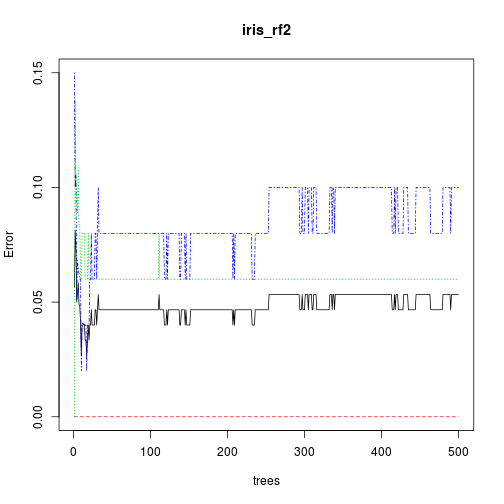
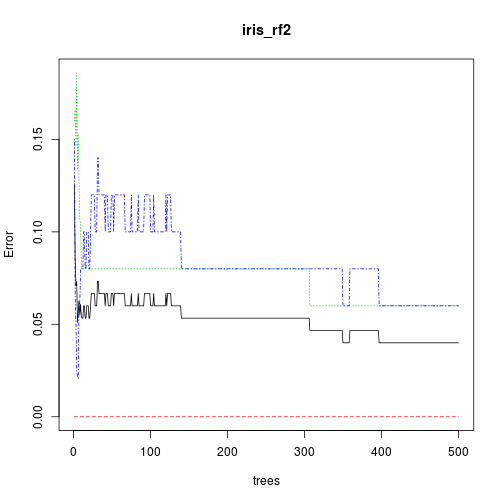
automatic build of site

diff --git a/_posts/2015-01-15-07-Analyze.md b/_posts/2015-01-15-07-Analyze.md
@@ -9,7 +9,7 @@ layout: post_page
 The second section will run through a quick example of using a package, `randomForest` for some analysis.  I've included this section just to show how (relatively) trivial it is to add an advanced capability to R via packages.
 
 ##Quick Links to Exercises and R code
-- [Lesson 7 R Code](/introR/rmd_posts/2015-01-14-07-Analyze.R): All the code from this post in an R Script.
+- [Lesson 7 R Code](/introR/rmd_posts/2015-01-15-07-Analyze.R): All the code from this post in an R Script.
 - [Exercise 1](#exercise-1): Use random forests to predict NLA reference class. 
 
 ##Lesson Goals
@@ -53,12 +53,12 @@ iris_rf
 ##                      Number of trees: 500
 ## No. of variables tried at each split: 2
 ## 
-##         OOB estimate of  error rate: 4%
+##         OOB estimate of  error rate: 4.67%
 ## Confusion matrix:
 ##            setosa versicolor virginica class.error
 ## setosa         50          0         0        0.00
 ## versicolor      0         47         3        0.06
-## virginica       0          3        47        0.06
+## virginica       0          4        46        0.08
 {% endhighlight %}
 
 Can we predict species, well, I'd say so!  
@@ -81,12 +81,12 @@ iris_rf2
 ##                      Number of trees: 500
 ## No. of variables tried at each split: 2
 ## 
-##         OOB estimate of  error rate: 5.33%
+##         OOB estimate of  error rate: 4%
 ## Confusion matrix:
 ##            setosa versicolor virginica class.error
 ## setosa         50          0         0        0.00
 ## versicolor      0         47         3        0.06
-## virginica       0          5        45        0.10
+## virginica       0          3        47        0.06
 {% endhighlight %}
 
 The only thing we haven't seen before here is the ".".  That indicates all the other variables in the data frame.  It is just a shortcut and you could explicitly name the variables to use.

diff --git a/rmd_posts/2015-01-15-07-Analyze.md b/rmd_posts/2015-01-15-07-Analyze.md
@@ -9,7 +9,7 @@ layout: post_page
 The second section will run through a quick example of using a package, `randomForest` for some analysis.  I've included this section just to show how (relatively) trivial it is to add an advanced capability to R via packages.
 
 ##Quick Links to Exercises and R code
-- [Lesson 7 R Code](/introR/rmd_posts/2015-01-14-07-Analyze.R): All the code from this post in an R Script.
+- [Lesson 7 R Code](/introR/rmd_posts/2015-01-15-07-Analyze.R): All the code from this post in an R Script.
 - [Exercise 1](#exercise-1): Use random forests to predict NLA reference class. 
 
 ##Lesson Goals
@@ -53,12 +53,12 @@ iris_rf
 ##                      Number of trees: 500
 ## No. of variables tried at each split: 2
 ## 
-##         OOB estimate of  error rate: 4%
+##         OOB estimate of  error rate: 4.67%
 ## Confusion matrix:
 ##            setosa versicolor virginica class.error
 ## setosa         50          0         0        0.00
 ## versicolor      0         47         3        0.06
-## virginica       0          3        47        0.06
+## virginica       0          4        46        0.08
 {% endhighlight %}
 
 Can we predict species, well, I'd say so!  
@@ -81,12 +81,12 @@ iris_rf2
 ##                      Number of trees: 500
 ## No. of variables tried at each split: 2
 ## 
-##         OOB estimate of  error rate: 5.33%
+##         OOB estimate of  error rate: 4%
 ## Confusion matrix:
 ##            setosa versicolor virginica class.error
 ## setosa         50          0         0        0.00
 ## versicolor      0         47         3        0.06
-## virginica       0          5        45        0.10
+## virginica       0          3        47        0.06
 {% endhighlight %}
 
 The only thing we haven't seen before here is the ".".  That indicates all the other variables in the data frame.  It is just a shortcut and you could explicitly name the variables to use.

diff --git a/_posts/2015-01-15-06-Analyze.md b/_posts/2015-01-15-06-Analyze.md
@@ -6,7 +6,7 @@ layout: post_page
 The focus of this workshop hasn't really been statistics, its been more about R, the language.  But, it is pretty much impossible to talk a lot about R without getting into stats, as that is what draws most people to R in the first place.  So, we will spend a little bit of time on it.  In this lesson we will touch on some very simple stats that we can do with base R as well as provide a quick (i.e. top of my head as I write this) list of what can be done in base R.  
 
 ##Quick Links to Exercises and R code
-- [Lesson 4 R Code](/introR/rmd_posts/2015-01-14-06-Analyze.R): All the code from this post in an R Script.
+- [Lesson 4 R Code](/introR/rmd_posts/2015-01-15-06-Analyze.R): All the code from this post in an R Script.
 - [Exercise 1](#exercise-1): Run some basic statistical test and build a simple model with the NLA data
 
 ##Lesson Goals
@@ -36,13 +36,13 @@ xy_tt
 ## 	Welch Two Sample t-test
 ## 
 ## data:  x and y
-## t = -8.2469, df = 40.705, p-value = 3.214e-10
+## t = -6.5206, df = 38.427, p-value = 1.049e-07
 ## alternative hypothesis: true difference in means is not equal to 0
 ## 95 percent confidence interval:
-##  -9.072528 -5.502536
+##  -8.952372 -4.711729
 ## sample estimates:
 ## mean of x mean of y 
-##  2.780903 10.068435
+##  3.033759  9.865810
 {% endhighlight %}
 
 `t.test()` can also take a formula specification as input. I mentioned this briefly in the previous lesson.  At it's simplest a formula takes the form of `y ~ x`.  The tilde is used in place of the equals sign.  For a t-test that is all we need to know.  

diff --git a/rmd_posts/2015-01-15-06-Analyze.md b/rmd_posts/2015-01-15-06-Analyze.md
@@ -6,7 +6,7 @@ layout: post_page
 The focus of this workshop hasn't really been statistics, its been more about R, the language.  But, it is pretty much impossible to talk a lot about R without getting into stats, as that is what draws most people to R in the first place.  So, we will spend a little bit of time on it.  In this lesson we will touch on some very simple stats that we can do with base R as well as provide a quick (i.e. top of my head as I write this) list of what can be done in base R.  
 
 ##Quick Links to Exercises and R code
-- [Lesson 4 R Code](/introR/rmd_posts/2015-01-14-06-Analyze.R): All the code from this post in an R Script.
+- [Lesson 4 R Code](/introR/rmd_posts/2015-01-15-06-Analyze.R): All the code from this post in an R Script.
 - [Exercise 1](#exercise-1): Run some basic statistical test and build a simple model with the NLA data
 
 ##Lesson Goals
@@ -36,13 +36,13 @@ xy_tt
 ## 	Welch Two Sample t-test
 ## 
 ## data:  x and y
-## t = -8.2469, df = 40.705, p-value = 3.214e-10
+## t = -6.5206, df = 38.427, p-value = 1.049e-07
 ## alternative hypothesis: true difference in means is not equal to 0
 ## 95 percent confidence interval:
-##  -9.072528 -5.502536
+##  -8.952372 -4.711729
 ## sample estimates:
 ## mean of x mean of y 
-##  2.780903 10.068435
+##  3.033759  9.865810
 {% endhighlight %}
 
 `t.test()` can also take a formula specification as input. I mentioned this briefly in the previous lesson.  At it's simplest a formula takes the form of `y ~ x`.  The tilde is used in place of the equals sign.  For a t-test that is all we need to know.  

diff --git a/_posts/2015-01-15-09-Repeat-Reproduce.md b/_posts/2015-01-15-09-Repeat-Reproduce.md
@@ -8,7 +8,7 @@ layout: post_page
 In theory, you now have a basic understanding of how to conduct a typical data analysis workflow in R.  All that is left is to be able to write it up in such a way that others can not only understand what we did, but repeat it exactly on their own machines. To do this effectively we need to understand how to create reusable R code and create reproducible reports.  This will be a very high level introduction to both concepts, but should hopefully give you a jumping off place for more learning.
 
 ##Quick Links to Exercises and R code
-- [Lesson 9 R Code](/introR/rmd_posts/2015-01-14-09-Repeat-Reproduce.R): All the code from this post in an R Script.
+- [Lesson 9 R Code](/introR/rmd_posts/2015-01-15-09-Repeat-Reproduce.R): All the code from this post in an R Script.
 - [Exercise 1](#exercise-1): Create your own function
 
 
@@ -320,7 +320,7 @@ system.time(sum(large_vec))
 
 {% highlight text %}
 ##    user  system elapsed 
-##   0.008   0.004   0.008
+##   0.012   0.000   0.009
 {% endhighlight %}
 
 
@@ -339,7 +339,7 @@ system.time(sum_vec(large_vec))
 
 {% highlight text %}
 ##    user  system elapsed 
-##   2.384   0.000   2.384
+##   2.392   0.004   2.397
 {% endhighlight %}
 
 Here we can see the difference.  In this case the `sum()` is several hundred times faster! 

diff --git a/rmd_posts/2015-01-15-09-Repeat-Reproduce.md b/rmd_posts/2015-01-15-09-Repeat-Reproduce.md
@@ -8,7 +8,7 @@ layout: post_page
 In theory, you now have a basic understanding of how to conduct a typical data analysis workflow in R.  All that is left is to be able to write it up in such a way that others can not only understand what we did, but repeat it exactly on their own machines. To do this effectively we need to understand how to create reusable R code and create reproducible reports.  This will be a very high level introduction to both concepts, but should hopefully give you a jumping off place for more learning.
 
 ##Quick Links to Exercises and R code
-- [Lesson 9 R Code](/introR/rmd_posts/2015-01-14-09-Repeat-Reproduce.R): All the code from this post in an R Script.
+- [Lesson 9 R Code](/introR/rmd_posts/2015-01-15-09-Repeat-Reproduce.R): All the code from this post in an R Script.
 - [Exercise 1](#exercise-1): Create your own function
 
 
@@ -320,7 +320,7 @@ system.time(sum(large_vec))
 
 {% highlight text %}
 ##    user  system elapsed 
-##   0.008   0.004   0.008
+##   0.012   0.000   0.009
 {% endhighlight %}
 
 
@@ -339,7 +339,7 @@ system.time(sum_vec(large_vec))
 
 {% highlight text %}
 ##    user  system elapsed 
-##   2.384   0.000   2.384
+##   2.392   0.004   2.397
 {% endhighlight %}
 
 Here we can see the difference.  In this case the `sum()` is several hundred times faster! 

diff --git a/_posts/2015-01-15-08-Visualize.md b/_posts/2015-01-15-08-Visualize.md
@@ -9,7 +9,7 @@ layout: post_page
 One of the frequently touted strong points of R is data visualization.  We saw some of that with our use of base graphics, but those plots were, frankly, a bit pedestrian.  More and more though, users are moving away from base graphics and using the`ggplot2` package.  I would even go as far to say that it is almost become the default plotting mechanism in R.  This whole lesson we will focus on creating, modifying, and save plots with `ggplot2`. And full disclosure here, I am relatively new to `ggplot2` and have been using it to create plots for about a year, thus I likely don't have all the answers!  I will fake it as best I can.
 
 ##Quick Links to Exercises and R code
-- [Lesson 8 R Code](/introR/rmd_posts/2015-01-14-08-Visualize.R): All the code from this post in an R Script.
+- [Lesson 8 R Code](/introR/rmd_posts/2015-01-15-08-Visualize.R): All the code from this post in an R Script.
 - [Exercise 1](#exercise-1): Create a number of styles of plots
 - [Exercise 2](#exercise-2): Build a plot, using custom themes, and save as a jpeg.
 

diff --git a/rmd_posts/2015-01-15-08-Visualize.md b/rmd_posts/2015-01-15-08-Visualize.md
@@ -9,7 +9,7 @@ layout: post_page
 One of the frequently touted strong points of R is data visualization.  We saw some of that with our use of base graphics, but those plots were, frankly, a bit pedestrian.  More and more though, users are moving away from base graphics and using the`ggplot2` package.  I would even go as far to say that it is almost become the default plotting mechanism in R.  This whole lesson we will focus on creating, modifying, and save plots with `ggplot2`. And full disclosure here, I am relatively new to `ggplot2` and have been using it to create plots for about a year, thus I likely don't have all the answers!  I will fake it as best I can.
 
 ##Quick Links to Exercises and R code
-- [Lesson 8 R Code](/introR/rmd_posts/2015-01-14-08-Visualize.R): All the code from this post in an R Script.
+- [Lesson 8 R Code](/introR/rmd_posts/2015-01-15-08-Visualize.R): All the code from this post in an R Script.
 - [Exercise 1](#exercise-1): Create a number of styles of plots
 - [Exercise 2](#exercise-2): Build a plot, using custom themes, and save as a jpeg.
 
